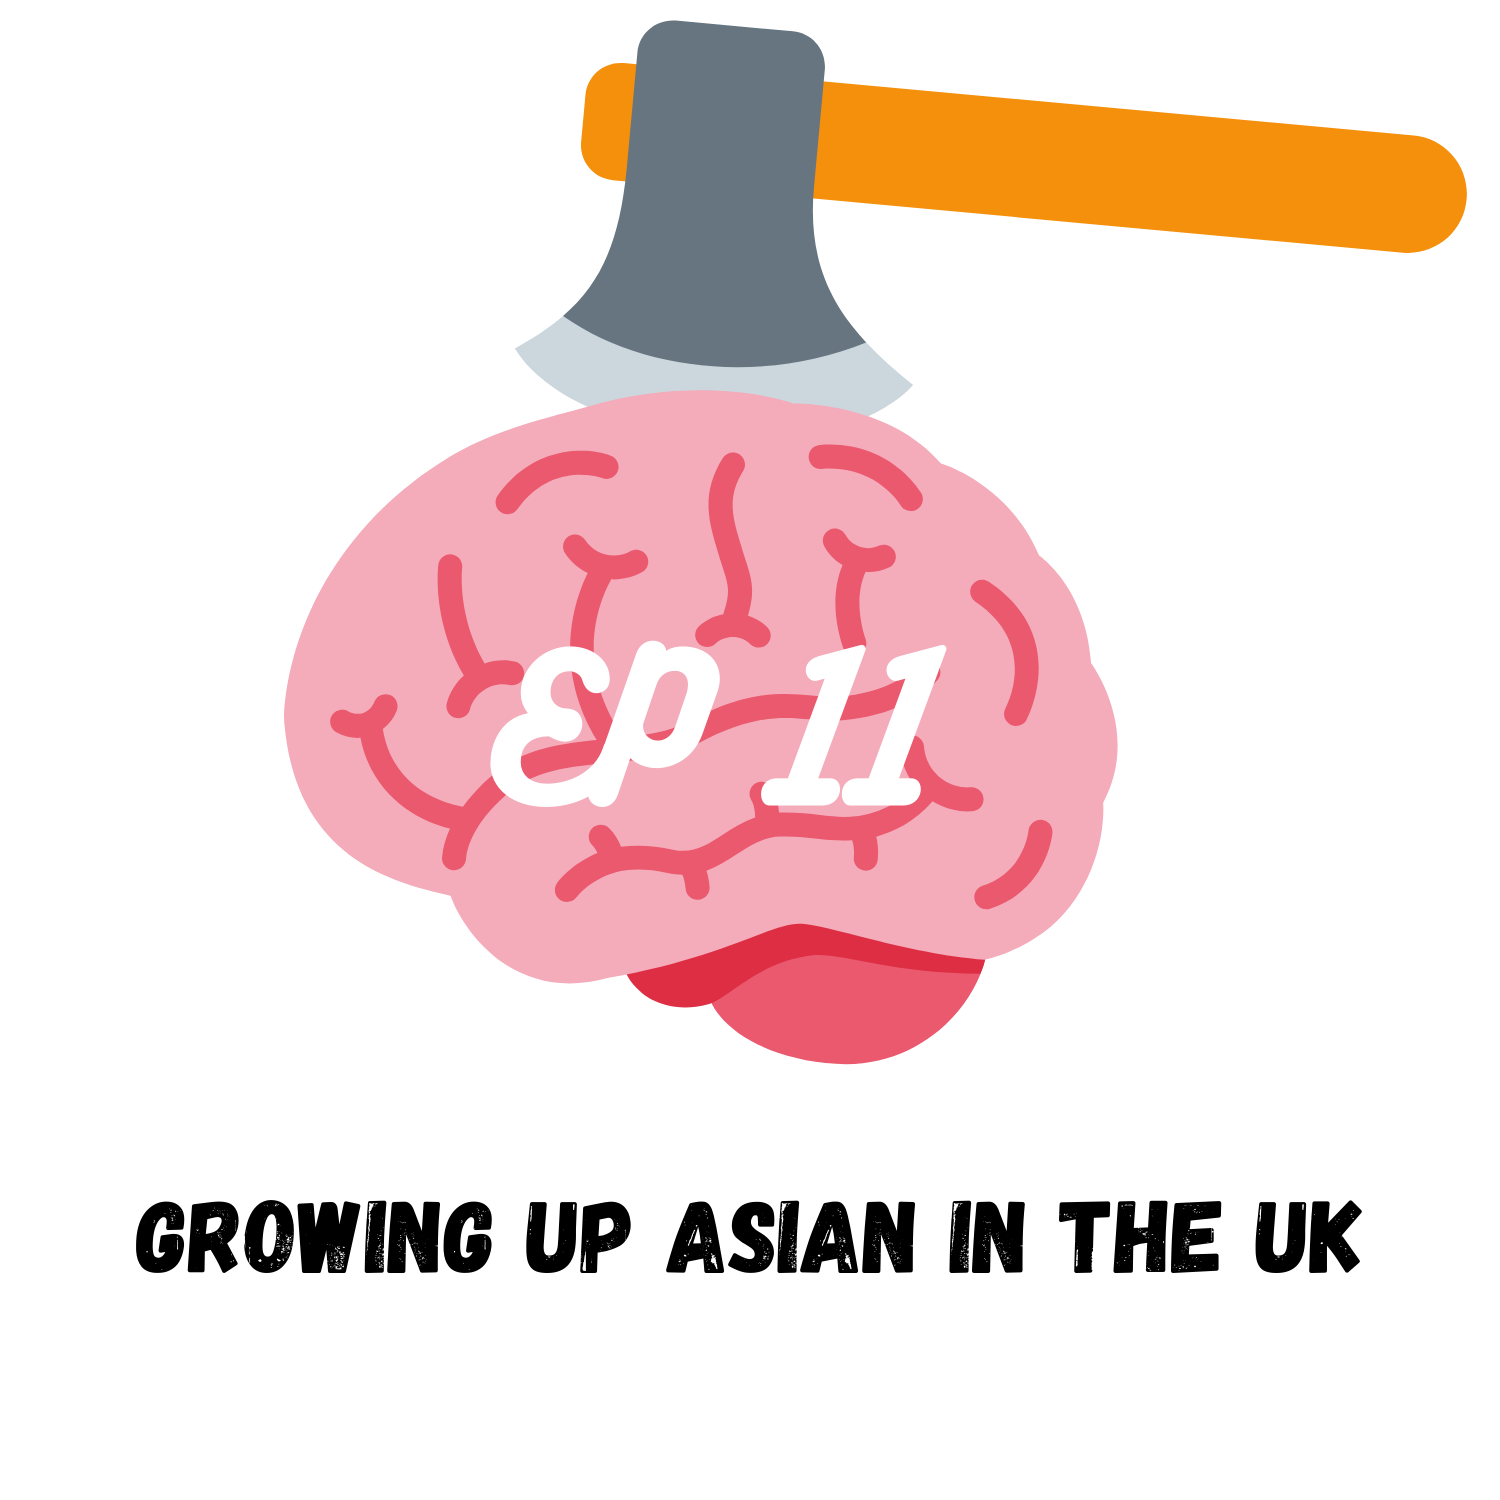
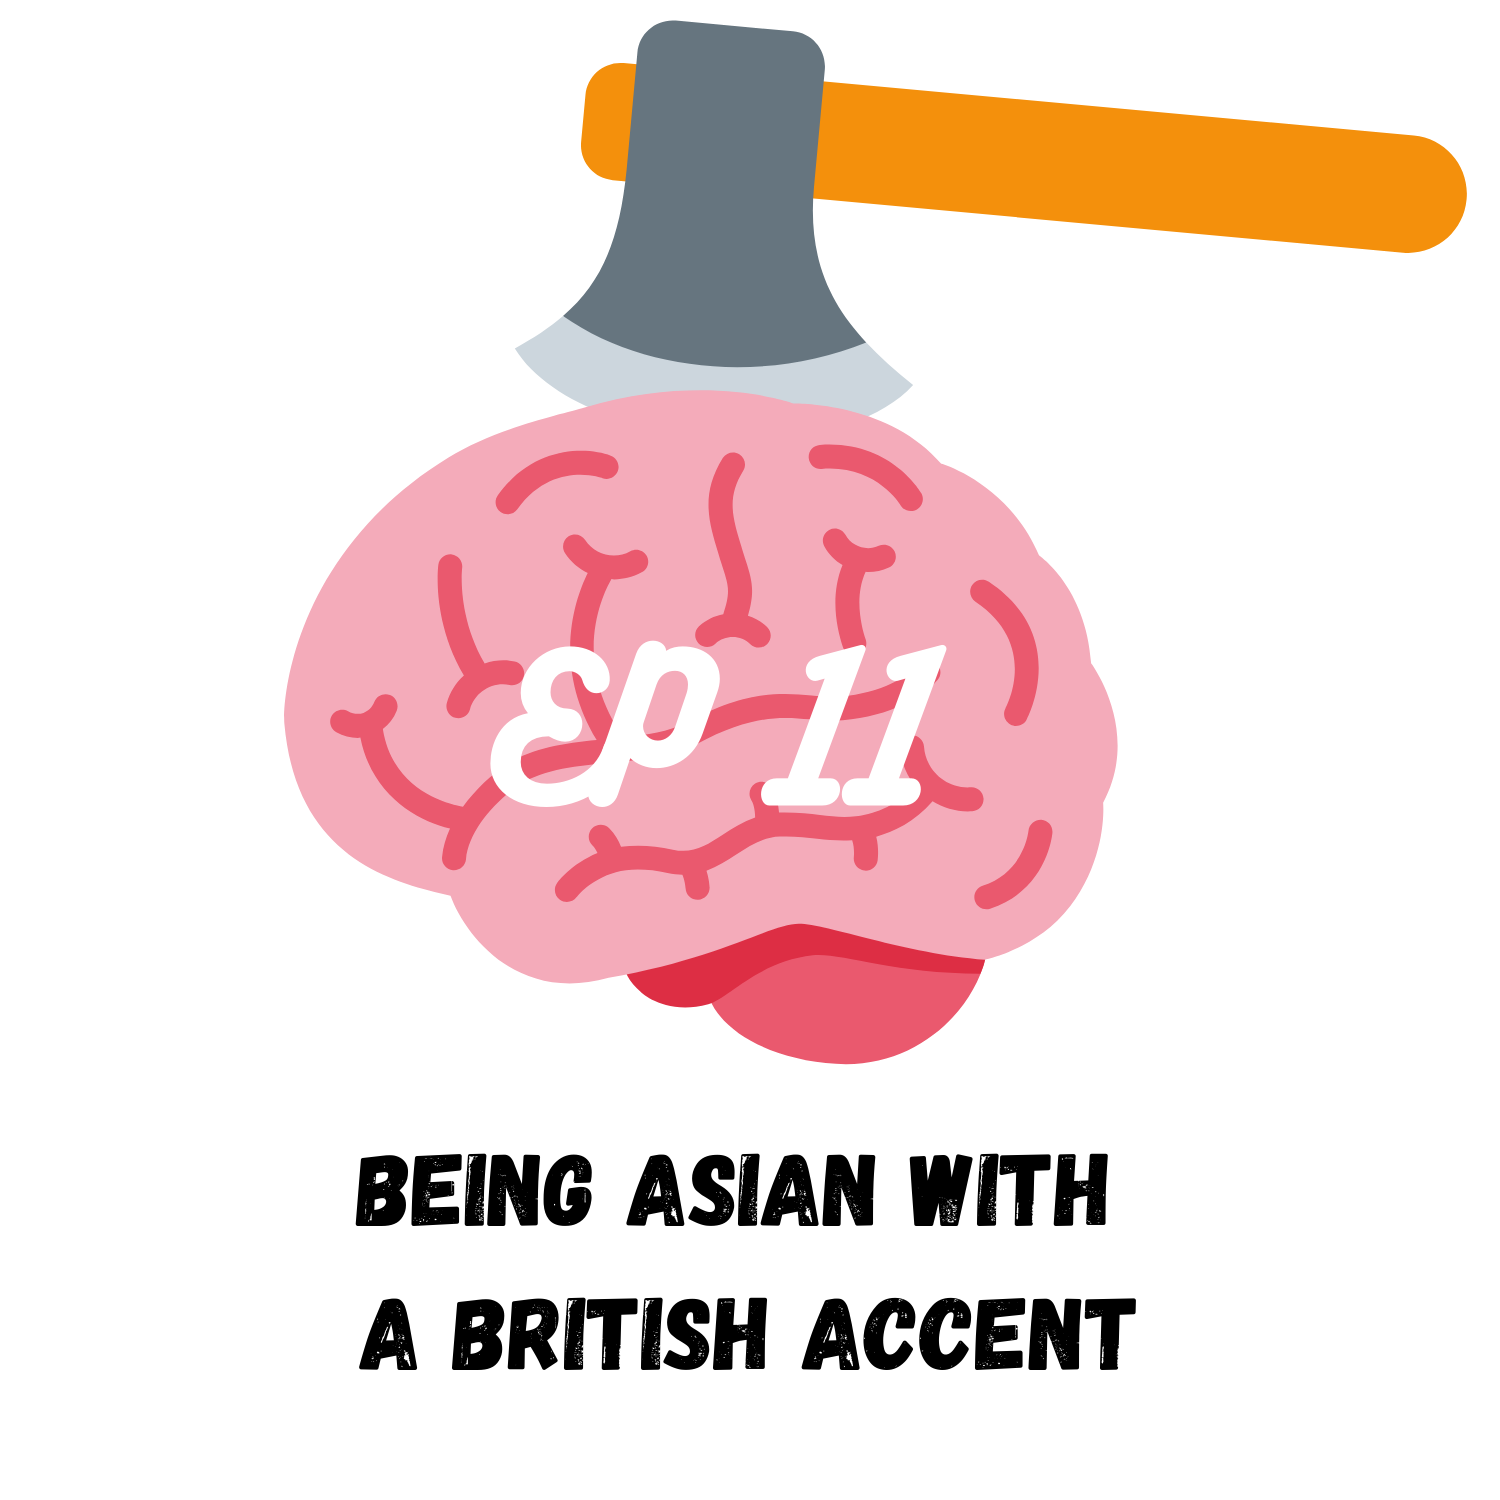
Update ep 11 title and description - itsoverpod

Changed region(s): [[0.092, 0.7667, 0.92, 0.92]]

diff --git a/itsoverpod/episode11.html b/itsoverpod/episode11.html
@@ -39,17 +39,17 @@
 			<!-- Main -->
 			<div id="main">
 				<div class="inner">
-					<h1>Episode 11 - Growing Up Asian in the UK - Cathy Xu</h1>
+					<h1>Episode 11 - Being Asian with a British Accent - Cathy Xu</h1>
 					
 					<p>
 						<strong>September 16, 2020</strong><br><br>
-						Assimilating into white culture and getting the best of both worlds.<br><br>
+						Assimilating into white culture and getting the best (or worst) of both worlds.<br><br>
 
 						Tune in on:
 						<script src="podcast-distribution-links.js"></script>
 					</p>
-					
-					<iframe src="https://anchor.fm/itsover/embed/episodes/Ep-11---Growing-Up-Asian-in-the-UK---Cathy-Xu-ejncss" height="auto" width="100%" frameborder="0" scrolling="no"></iframe><br><br>
+
+					<iframe src="https://anchor.fm/itsover/embed/episodes/Ep-11---Being-Asian-with-a-British-Accent---Cathy-Xu-ejncss" height="auto" width="100%" frameborder="0" scrolling="no"></iframe><br><br>
 					
 					<div class="align-center">
 						<a href="episodes" class="button">More episodes</a>
